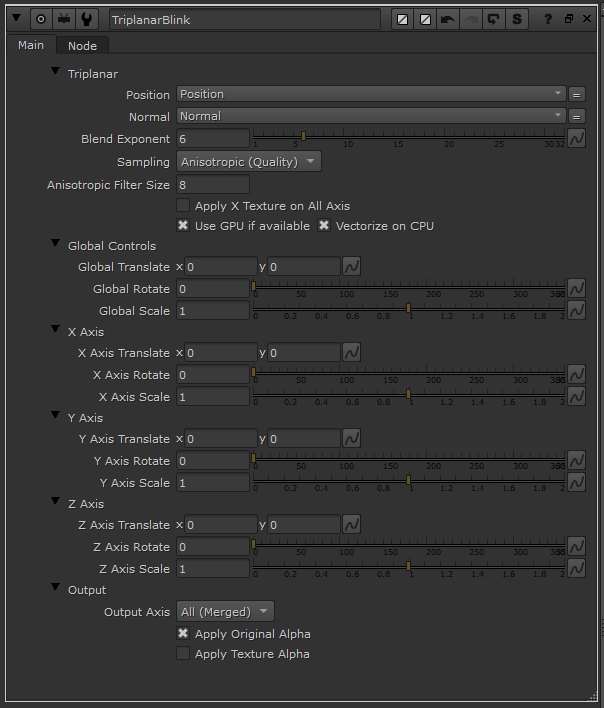
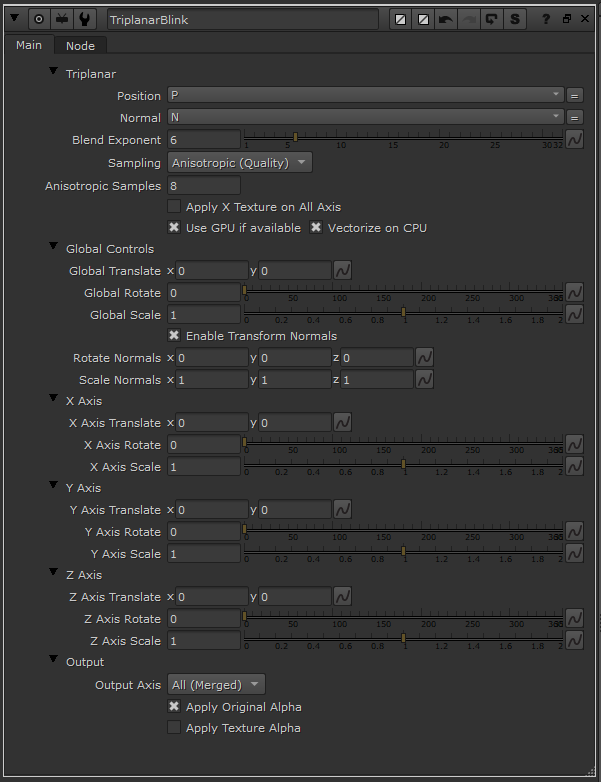
+ Add Normal rotation and scale

Changed region(s): [[0.0, 0.0, 1.0, 1.0]]

diff --git a/gizmos/triplanar_blinkscript/triplanar.cpp b/gizmos/triplanar_blinkscript/triplanar.cpp
@@ -21,7 +21,7 @@ kernel Triplanar : public ImageComputationKernel <ePixelWise> {
         // Blend and filtering params
         float blendExponent;
         int filterMode;
-        int anisotropicFilterSize;
+        int anisotropicSampleCount;
 
         // Per axis transform params
         float2 offsetX;
@@ -67,7 +67,7 @@ kernel Triplanar : public ImageComputationKernel <ePixelWise> {
 
         defineParam(blendExponent, "Blend Exponent", 1.0f);
         defineParam(filterMode, "Filter Mode", 0);
-        defineParam(anisotropicFilterSize, "Anisotropic Filter Size", 4);
+        defineParam(anisotropicSampleCount, "Anisotropic Samples", 8);
 
         defineParam(offsetX, "X Axis Translate", float2(0.0f, 0.0f));
         defineParam(angleX, "X Axis Rotate", 0.0f);
@@ -295,12 +295,12 @@ kernel Triplanar : public ImageComputationKernel <ePixelWise> {
         }
 
         // Calculate our step size, center offset, and initialize our output
-        float step = maxDerivative / (anisotropicFilterSize - 1);
-        float centerOffset = (anisotropicFilterSize - 1) * 0.5;
+        float step = maxDerivative / (anisotropicSampleCount - 1);
+        float centerOffset = (anisotropicSampleCount - 1) * 0.5;
         float4 result = float4(0.0f);
 
         // Step through our sample count and accumulate linear samples on each iteration, slowly moving in the direction of the offset 
-        for (int i = 0; i < anisotropicFilterSize; i++) {
+        for (int i = 0; i < anisotropicSampleCount; i++) {
             float offset = (i - centerOffset) * step;
             float2 sampleUV = uv + majorDir * offset;
             float4 sampleColor = float4(0.0f);
@@ -318,7 +318,7 @@ kernel Triplanar : public ImageComputationKernel <ePixelWise> {
         }
 
         // Normalize our result
-        return result / anisotropicFilterSize;
+        return result / anisotropicSampleCount;
     }
 
     // The actual kernel

diff --git a/README.md b/README.md
@@ -12,6 +12,7 @@ A high-performance triplanar projection node utilizing Nuke's BlinkScript engine
 - **High-Quality Sampling**: Includes Linear, Bilinear, and Anisotropic filtering to reduce blur at oblique angles.
 - **Flexible Controls**:
   - Global and per-axis Translate, Rotate, and Scale.
+  - Normal channel rotation and scale.
   - Output controls to view the merged result or isolate specific axes.
   - `Blend Exponent` to control the sharpness of the transition between projections.
   - `Apply X Texture on All Axis` toggle for quick single-texture mapping.
